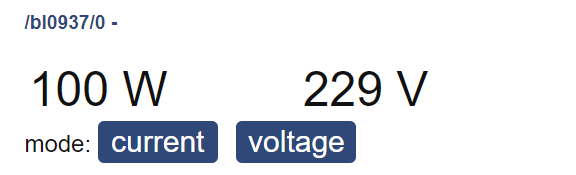
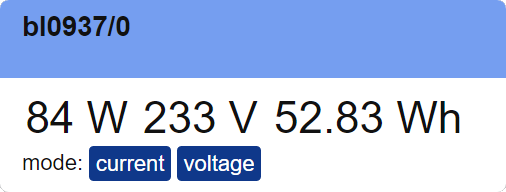
doku

diff --git a/elements/bl0937.md b/elements/bl0937.md
@@ -13,6 +13,7 @@ As they directly work with the main power signals, only using some resistors to 
 The HLW8012 is an older model while the HJL-01/BL0937 is a newer more stable version.
 
 :::warning
+
 * This warning is serious.
 * Never handle projects that are connected to the mains voltage.
 * Stay away from devices with contact to mains voltage.
@@ -22,9 +23,10 @@ The HLW8012 is an older model while the HJL-01/BL0937 is a newer more stable ver
 * The USB-Serial adapters offer enough power to flash the device.
 * When you are making these kind of projects you really need to know what you are doing.
 * I have warned you, do not blame on me.
+
 :::
 
-## Web UI for the DHT Element
+## Web UI for the BL0937 Element
 
 There is a dedicated card for this element available that shows the actual measured values and can switch between voltage and current mode.
 
@@ -47,34 +49,38 @@ The timing of these impulses will be used to calculate the power consumption, ac
 
 The following properties are available for configuration of the element:
 
-**selpin**\* - Specifies the GPIO pin that is used to select current or voltage mode.
+> **selpin**\* -- Specifies the GPIO pin that is used to select current or voltage mode.
+>
+> **cfpin**\*  -- Specifies the GPIO pin that is used to capture the cf signal from the chip for power consumption.
+>
+> **cf1pin**\* -- Specifies the GPIO pin that is used to capture the cf signal from the chip for current or voltage.
+>
+> **mode** -- specifies wether the current or the voltage mode should be used.
+>
+> **cycletime** -- The cycletime defines the time in milliseconds that is used to collect impulses. The default is set to 2 seconds (2000 milliseconds) good for load > 10W.
+> When having lower loads this time may be set to use longer time to count impulses.
+>
+> **powerfactor** -- This factor defines pulse density to power in W.
+>
+> **currentfactor** -- This factor defines pulse density to current in mA.
+>
+> **voltagefactor** -- This factor defines pulse density to voltage in V.
+>
+> **poweradjust** -- This action uses the given power value to calculate the power factor.
+>
+> **currentadjust** -- This action uses the given current value to calculate the current factor.
+>
+> **voltageadjust** -- This action uses the given voltage value to calculate the voltage factor.
+>
+> **onVoltage** -- These actions are emitted by the element when a new voltage value was measured.
+>
+> **onCurrent** -- These actions are emitted by the element when a new current value was measured.
+>
+> **onPower** -- These actions are emitted by the element when a new power value was measured.
+>
+> **onEnergy** -- These actions are emitted by the element when a new energy value was measured.
 
-**cfpin**\*  - Specifies the GPIO pin that is used to capture the cf signal from the chip for power consumption.
-
-**cf1pin**\* - Specifies the GPIO pin that is used to capture the cf signal from the chip for current or voltage.
-
-**mode** - specifies wether the current or the voltage mode should be used.
-
-**cycletime** - The cycletime defines the time in msecs that is used to collect impulses. The default is set to 2 seconds (2000 msecs) good for load > 10W.
-  When having lower loads this time may be set to use longer time to count impulses.
-
-**powerfactor** - This factor defines pulse density to power in W.
-
-**currentfactor** - This factor defines pulse density to current in mA.
-
-**voltagefactor** - This factor defines pulse density to voltage in V.
-
-**poweradjust** - This action uses the given power value to calculate the power factor.
-
-**currentadjust** - This action uses the given current value to calculate the current factor.
-
-**voltageadjust** - This action uses the given voltage value to calculate the voltage factor.
-
-**onpower** - These actions are emitted by the element when a new power value was measured.
-
-**oncurrent** - These actions are emitted by the element when a new current value was measured. 
-
-**onvoltage** - These actions are emitted by the element when a new voltage value was measured. 
+{% include "./elementproperties.md" %}
 
 \* These properties are mandatory
 
@@ -98,26 +104,31 @@ The following properties are available for configuration of the element:
     }
   }
 }
-``` 
+```
 
 ## Element State
 
 The following properties are available with the current values at runtime
 
-**active** - Is set to true when the Element is active.
-
-**cycletime** - The actual cycletime for counting pulses.
-
-**mode** - The actual mode for cf1 pulses.
-
-**power** - The actual  power value.
-**powerfactor** - The actual used factor.
-
-**current** - The actual current value when current mode is active.
-**currentfactor** - The actual used factor.
-
-**voltage** - The actual voltage value when voltage mode is active.
-**voltagefactor** - The actual used factor.
+> **active** -- Is set to true when the Element is active.
+>
+> **cycletime** -- The actual cycletime for counting pulses.
+>
+> **mode** -- The actual mode for cf1 pulses.
+>
+> **power** -- The actual  power value.
+>
+> **powerfactor** -- The actual used factor.
+>
+> **current** -- The actual current value when current mode is active.
+>
+> **currentfactor** -- The actual used factor.
+>
+> **voltage** -- The actual voltage value when voltage mode is active.
+>
+> **voltagefactor** -- The actual used factor.
+>
+> **energy** -- The actual voltage value when voltage mode is active.
 
 
 ### Example State
@@ -127,7 +138,8 @@ The following properties are available with the current values at runtime
   "bl0937/0": {
     "active":"true","cycletime":"1000","mode":"voltage",
     "power":"120","powerfactor":"1346829.38",
-    "current":"435","voltagefactor":"129059.00"
+    "current":"435","voltagefactor":"129059.00",
+    "energy":"52.83"
   }
 }
 ```
@@ -137,16 +149,16 @@ The following properties are available with the current values at runtime
 
 There are some devices available using the ESP8266 processor and one of these energy monitoring chips:
 
-* Sonoff POW Power Monitoring Switch
-* BlitzWolf BW-SHP6 10A
-* BlitzWolf BW-SHP6 15A
-* Gosund SP111 Power Monitoring Plug
-* BlitzWolf BW-SHP2 Power Monitoring Plug
+> * Sonoff POW Power Monitoring Switch
+> * BlitzWolf BW-SHP6 10A
+> * BlitzWolf BW-SHP6 15A
+> * Gosund SP111 Power Monitoring Plug
+> * BlitzWolf BW-SHP2 Power Monitoring Plug
 
 Many of them are manufactured by Tuya and re-branded.
 
-When you find your device in the Template list at https://templates.blakadder.com/all.html
-and its functionality mentions a BL0937 or HLW8012 chip like the 
+When you find your device in the Template list at <https://templates.blakadder.com/all.html>
+and its functionality mentions a BL0937 or HLW8012 chip like the
 <https://templates.blakadder.com/gosund_SP111.html> it is likely to be supported by this element.
 
 Here you can also detect the GPIOs used connecting to the chip (SEL, CF, CF1).
@@ -159,17 +171,17 @@ Most devices with these chips differ in the accuracy of the pulses. Therefore to
 The get the device specific factors a reference load is required where the power consumption is known or use another good power measuring tool.
 The best results are given by pure resistor loads like classic light bulbs. Here a 100W light is used.
 
-- call <http://plug05/$board/bl0937/0?cycletime=5000> to create a more precise pulse monitoring 5 sec cycles can be used.
-- call <http://plug05/$board/bl0937/0?mode=voltage> 
-- Switch on and wait some cycles (30secs).
-- call <http://plug05/$board/bl0937/0?poweradjust=100> to adjust the powerfactor
-- call <http://plug05/$board/bl0937/0?voltageadjust=226> to adjust the voltagefactor
-- calculate the current in mA using the formula current = watt/voltage*1000
-- call <http://plug05/$board/bl0937/0> and see the powerfactor and voltagefactor
-- call <http://plug05/$board/bl0937/0?mode=current> 
-- Wait some cycles (30secs).
-- call <http://plug05/$board/bl0937/0?currentadjust=435>
-- call <http://plug05/$board/bl0937/0> and see the currentfactor
+* call <http://plug05/$board/bl0937/0?cycletime=5000> to create a more precise pulse monitoring 5 sec cycles can be used.
+* call <http://plug05/$board/bl0937/0?mode=voltage>
+* Switch on and wait some cycles (30secs).
+* call <http://plug05/$board/bl0937/0?poweradjust=100> to adjust the powerfactor
+* call <http://plug05/$board/bl0937/0?voltageadjust=226> to adjust the voltagefactor
+* calculate the current in mA using the formula current = watt/voltage*1000
+* call <http://plug05/$board/bl0937/0> and see the powerfactor and voltagefactor
+* call <http://plug05/$board/bl0937/0?mode=current>
+* Wait some cycles (30secs).
+* call <http://plug05/$board/bl0937/0?currentadjust=435>
+* call <http://plug05/$board/bl0937/0> and see the currentfactor
 
 (you may use your device name and adjust the id of the bl0937 element. Here just `0`was used.)
 
@@ -180,24 +192,34 @@ enter the 3 factors into the configuration.
 
 ![BL0937 Pins](/elements/bl0937pins.png)
 
+To meassure voltage and current the chips are connected via resistors to the main power signals.
+A special load resistor is required to measure the current and the resulting voltage over the resistor
+is then probed by the chip.
+
+Voltage or current can be measured alternatively but the energy monitoring is active permanently.
+
+The result of the measurement are impulses on the CF (energy) and CF1 (Voltage or Current) pins.
+
+The BL0937 Element captures these pulses using the nanosecond timer to calculate the values.
+
 | Pin  | symbol | Description                                                                |
 | ---- | ------ | -------------------------------------------------------------------------- |
 | 1    | VDD    | Chip power supply (+3.3V):                                                 |
 | 2, 3 | IP, IN | Input of the current channel with a maximum differential voltage of ±50mV. |
 | 4    | VP     | Input of the voltage signal with a maximum of ±200mV.                      |
 | 5    | GND    | Chip ground.                                                               |
-| 6    | CF     | Actual power frequency pulse output.                                  |
+| 6    | CF     | Actual power frequency pulse output.                                       |
 | 7    | CF1    | Actual current or voltage high-frequency pulse output.                     |
 | 8    | SEL    | current / voltage output selection                                         |
 
-The pins CF and CF1 produce signals 
+The pins CF and CF1 produce signals:
 
-**SEL signal** - This signal is given by the element to the chip to switch between voltage and current measurement. It can be switched by the `mode` property of the element.
-
-**CF signal** - This signal emits pulses where the frequency is proportional to the power consumption.
-The maximal frequency is about 6,78 KHz when the limit of the sensor is reached.
-
-**CF1 signal** - This signal emits pulses where the frequency is proportional to the current or voltage value to be measured.
+> **SEL signal** - This signal is given by the element to the chip to switch between voltage and current measurement. It can be switched by the `mode` property of the element.
+>
+> **CF signal** - This signal emits pulses where the frequency is proportional to the power consumption.
+> The maximal frequency is about 6,78 KHz when the limit of the sensor is reached.
+>
+> **CF1 signal** - This signal emits pulses where the frequency is proportional to the current or voltage value to be measured.
 
 
 ## See also
@@ -212,12 +234,8 @@ Here are some links related to this chip and flushing a plug device.
 * <https://tasmota.github.io/docs/devices/BlitzWolf-SHP6/>
 * <https://templates.blakadder.com/gosund_SP111.html>
 
-* How the chip works: https://www.itead.cc/blog/introducting-the-hlw8012-ic-in-the-sonoff-pow
-* A Arduino Library : https://github.com/xoseperez/hlw8012
+* How the chip works: <https://www.itead.cc/blog/introducting-the-hlw8012-ic-in-the-sonoff-pow>
+* A Arduino Library : <https://github.com/xoseperez/hlw8012>
 * Tasmota implementation: <https://github.com/arendst/Tasmota/blob/development/tasmota/xnrg_01_hlw8012.ino>
 * Another implementation <https://github.com/MacWyznawca/HLW8012_BL0937_ESP>
 * Tasmota supported devices <https://templates.blakadder.com/all.html>
-
-
-## Tags
-#element #sensor

diff --git a/sensors/sensors.md b/sensors/sensors.md
@@ -217,8 +217,7 @@ Not yet fully supported by the HomeDing library. Experimental implementation in 
 :::
 
 :::sensor no bl0937
-Power monitoring chips : **HLW8012 BL0937**
-
+{% excerptOf collections.Element, "bl0937" %}
 [BL0937 Element](/elements/bl0937.md)
 :::
 
@@ -334,17 +333,19 @@ High precision Temperature Sensor
 -->
 
 
-<!-- 
+<!--
 :::sensor bme280
 The BME280 is a combination of a temperature, humidity and absolute barometric pressure sensor.
 :::
 -->
 
 
-<!-- :::sensor ccs811
+<!--
+:::sensor ccs811
 **CJMCU-811** or **CCS811**
 not yet supported.
-::: -->
+:::
+-->
 
 ### Motion
 

diff --git a/elements/index.md b/elements/index.md
@@ -67,11 +67,15 @@ Read sensor values from a PMS5003 sensor by plantdata to count micro particles i
 {% excerptOf collections.Element, "bmp280" %}
 :::
 
+<!--
+:::element bme280 bme280
+{% excerptOf collections.Element, "bme280" %}
+:::
+-->
+
 :::element bl0937 default
 {% excerptOf collections.Element, "bl0937" %}
 :::
-
-<!-- BME280 -->
 
 <!-- MPU9250 -->
 
